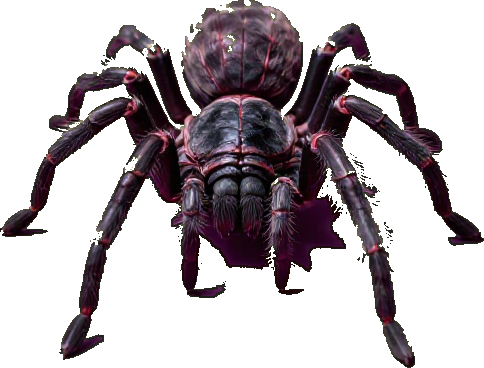
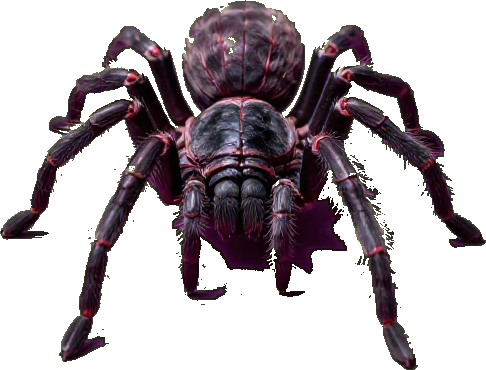
fix: 透過処理に行別背景色モデル・輪郭停止・接地影の帯除去を追加し、体の暗い影の誤透過を軽減。沼地の敵画像を再変換

diff --git a/scripts/chromakey_magenta.py b/scripts/chromakey_magenta.py
@@ -26,7 +26,7 @@ from PIL import Image, ImageFilter
 from collections import deque
 
 class MagentaChromaKeyer:
-    def __init__(self, tolerance=48.0, defringe_width=2, strict_tolerance=32.0, min_island_area=12, shadow_dist=60.0, grad_tolerance=8.0, grow_tolerance_scale=1.5, pool_min_area=600):
+    def __init__(self, tolerance=48.0, defringe_width=2, strict_tolerance=32.0, min_island_area=12, shadow_dist=60.0, grad_tolerance=8.0, grow_tolerance_scale=1.5, pool_min_area=600, edge_tolerance=30.0, row_tolerance=56.0):
         self.tolerance = tolerance
         self.defringe_width = defringe_width
         self.strict_tolerance = strict_tolerance
@@ -35,6 +35,8 @@ class MagentaChromaKeyer:
         self.grad_tolerance = grad_tolerance
         self.grow_tolerance_scale = grow_tolerance_scale
         self.pool_min_area = pool_min_area
+        self.edge_tolerance = edge_tolerance
+        self.row_tolerance = row_tolerance
 
     def process(self, src_path, dest_path=None, crop_bottom=True):
         if not os.path.exists(src_path):
@@ -100,8 +102,35 @@ class MagentaChromaKeyer:
         # Stage 3: 外周背景 + 内部孤立ループ（触角・羽・脚の間）のマゼンタ透過
         #   判定は「背景色との色距離」と「連結性」のみで行う（紫・ピンク等の体色を巻き込まない）
         # =========================================================================
-        # 背景色らしさ: ペリメーター背景色に近く、かつマゼンタ成分がある
-        bg_like = (~is_char_core) & (M > 18.0) & (min_dist_to_bg <= self.tolerance)
+        # 同じ行の左右端の色から期待される背景色（縦方向グラデーション・床の濃淡に追従）との距離
+        #   画像下部の暗い影の色が、体の暗い影を背景と誤認するのを防ぐ（全周最近傍だけでは区別できない）
+        edge_w = 3
+        left_c = arr[:, :edge_w].mean(axis=1)
+        right_c = arr[:, w - edge_w:].mean(axis=1)
+
+        def _row_ref(col):
+            col_M = np.minimum(col[:, 0] - col[:, 1], col[:, 2] - col[:, 1])
+            valid = col_M > 25.0
+            if not valid.any():
+                return None
+            rows = np.arange(h)
+            ref = np.stack([np.interp(rows, rows[valid], col[valid, c]) for c in range(3)], axis=1)
+            # 行方向の移動平均でキャラ接触・ノイズの影響を緩和
+            k = 9
+            pad = np.pad(ref, ((k // 2, k // 2), (0, 0)), mode='edge')
+            return np.stack([np.convolve(pad[:, c], np.ones(k) / k, mode='valid') for c in range(3)], axis=1)
+
+        l_ref = _row_ref(left_c)
+        r_ref = _row_ref(right_c)
+        if l_ref is not None and r_ref is not None:
+            t = np.linspace(0.0, 1.0, w)[None, :, None]
+            row_ref = l_ref[:, None, :] * (1.0 - t) + r_ref[:, None, :] * t
+            dist_row = np.sqrt(np.sum((arr - row_ref) ** 2, axis=2))
+        else:
+            dist_row = np.zeros((h, w), dtype=np.float32)
+
+        # 背景色らしさ: ペリメーター背景色に近く、同じ行の背景色にも近く、かつマゼンタ成分がある
+        bg_like = (~is_char_core) & (M > 18.0) & (min_dist_to_bg <= self.tolerance) & (dist_row <= self.row_tolerance)
         # 内部孤立ループ用の厳密判定（背景色にほぼ一致するもののみ）
         bg_strict = (~is_char_core) & (M > 28.0) & (min_dist_to_bg <= self.strict_tolerance)
 
@@ -129,13 +158,19 @@ class MagentaChromaKeyer:
             for dy, dx in [(-1, 0), (1, 0), (0, -1), (0, 1)]:
                 ny, nx = cy + dy, cx + dx
                 if 0 <= ny < h and 0 <= nx < w and not is_bg[ny, nx]:
-                    if bg_like[ny, nx]:
+                    if bg_like[ny, nx] and np.linalg.norm(arr[ny, nx] - arr[cy, cx]) <= self.edge_tolerance:
+                        # 背景色に近くても、隣接ピクセルとの色差が大きい（=輪郭）場合は越えない（体の暗い影を巻き込まない）
                         is_bg[ny, nx] = True
                         q.append((ny, nx))
                     elif grow_ok[ny, nx] and np.linalg.norm(arr[ny, nx] - arr[cy, cx]) <= self.grad_tolerance:
                         # 地面の模様・影など背景色から外れた部分は、隣接ピクセルとの色連続性（なだらかさ）で背景側へ拡張
                         is_bg[ny, nx] = True
                         q.append((ny, nx))
+
+        # 輪郭で止まった縁（アンチエイリアス部）の背景色にじみを、既存の背景から2px以内かつ背景色に近いものに限り回収
+        for _ in range(2):
+            near_bg = np.array(Image.fromarray(is_bg.astype(np.uint8) * 255).filter(ImageFilter.MaxFilter(3))) > 0
+            is_bg = is_bg | (near_bg & bg_like)
 
         # 内部孤立ループ（外周から塞がれた脚や触角の間）の背景検出
         # 背景色にほぼ一致する連結成分のうち、一定面積以上のものだけを透過（点状の誤検出を避ける）
@@ -201,6 +236,36 @@ class MagentaChromaKeyer:
                             pool_seen[ny, nx] = True
                             comp.append((ny, nx))
             if touch_bg and len(comp) >= self.pool_min_area:
+                for cy, cx in comp:
+                    is_bg[cy, cx] = True
+
+        # 暗色保護（is_char_core）に入り込む、極めて暗い赤紫の接地影の帯（足元領域・背景に接する横長の塊のみ）
+        #   体の暗部は無彩色寄りでこの色味にならず、かつ縦に厚いため、横長の帯条件で区別する
+        strip_cand = (np.arange(h)[:, None] > h * 0.6) & (~is_bg) & (g < 12.0) & (r - g > 20.0) & (b - g > 15.0) & (lum < 60.0)
+        strip_seen = np.zeros((h, w), dtype=bool)
+        for sy, sx in zip(*np.where(strip_cand)):
+            if strip_seen[sy, sx]:
+                continue
+            comp = [(sy, sx)]
+            strip_seen[sy, sx] = True
+            touch_bg = False
+            qi = 0
+            while qi < len(comp):
+                cy, cx = comp[qi]
+                qi += 1
+                for dy, dx in [(-1, 0), (1, 0), (0, -1), (0, 1)]:
+                    ny, nx = cy + dy, cx + dx
+                    if 0 <= ny < h and 0 <= nx < w:
+                        if is_bg[ny, nx]:
+                            touch_bg = True
+                        elif strip_cand[ny, nx] and not strip_seen[ny, nx]:
+                            strip_seen[ny, nx] = True
+                            comp.append((ny, nx))
+            ys_c = [c[0] for c in comp]
+            xs_c = [c[1] for c in comp]
+            bw = max(xs_c) - min(xs_c) + 1
+            bh = max(ys_c) - min(ys_c) + 1
+            if touch_bg and len(comp) >= 200 and bw >= 2.5 * bh:
                 for cy, cx in comp:
                     is_bg[cy, cx] = True
 
